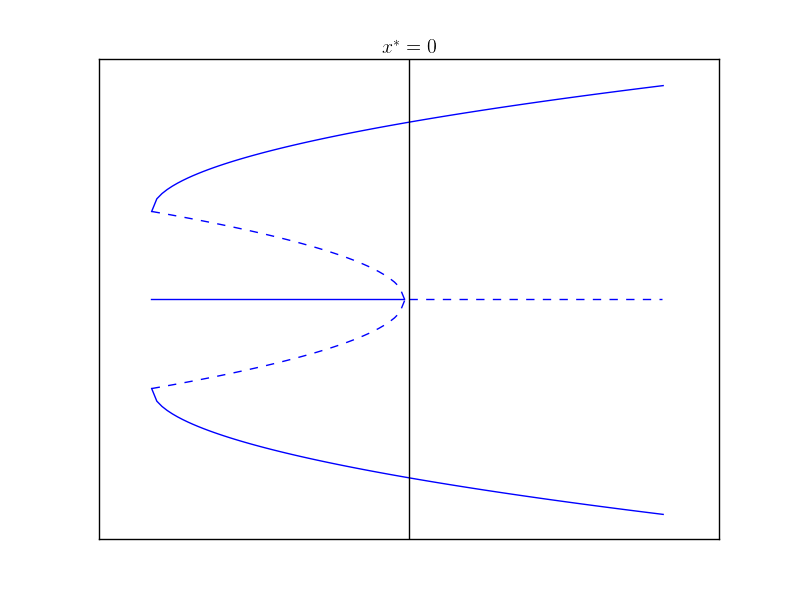
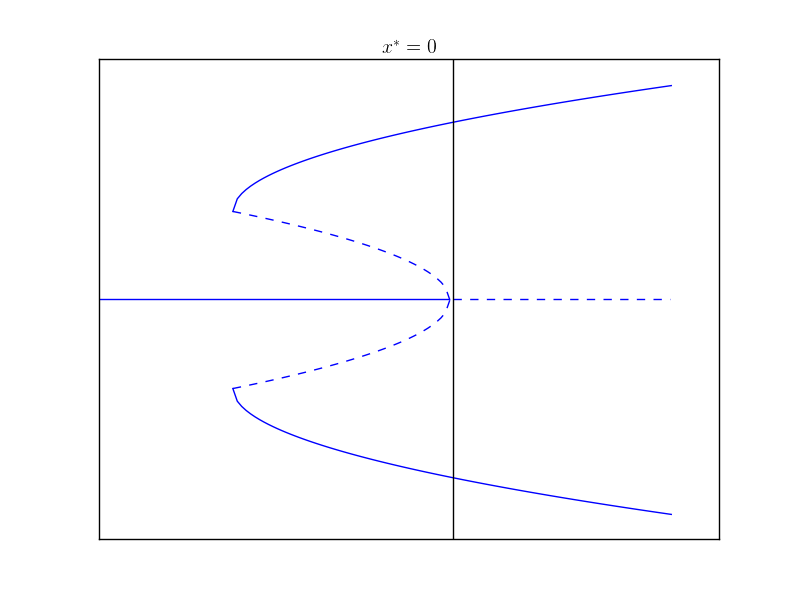
fix plot on stable subcritical

diff --git a/assets/bifurcation/pitchfork.py b/assets/bifurcation/pitchfork.py
@@ -133,13 +133,13 @@ if __name__ == "__main__":
     hold
     rpp = sqrt(arange(0,5,0.1))
     rpn = -1*sqrt(arange(0,5,0.1))
-    rn = zeros_like(arange(-5,0,0.1))
+    rn = zeros_like(arange(-8,0,0.1))
     rzp = zeros_like(arange(0,5,0.1))
-    rzn = zeros_like(arange(-5,0,0.1))
+    rzn = zeros_like(arange(-8,0,0.1))
     rps = sqrt(arange(0,10,0.1)) + rpp[-1]
     rpns = -1*sqrt(arange(0,10,0.1)) + rpn[-1]
     
-    ax.plot(arange(-5,0,0.1),rzn,'b-')
+    ax.plot(arange(-8,0,0.1),rzn,'b-')
     ax.plot(arange(0,5,0.1),rzp,'b--')
     ax.plot(arange(-5,0,0.1),rpp[::-1],'b--')
     ax.plot(arange(-5,0,0.1),rpn[::-1],'b--')
